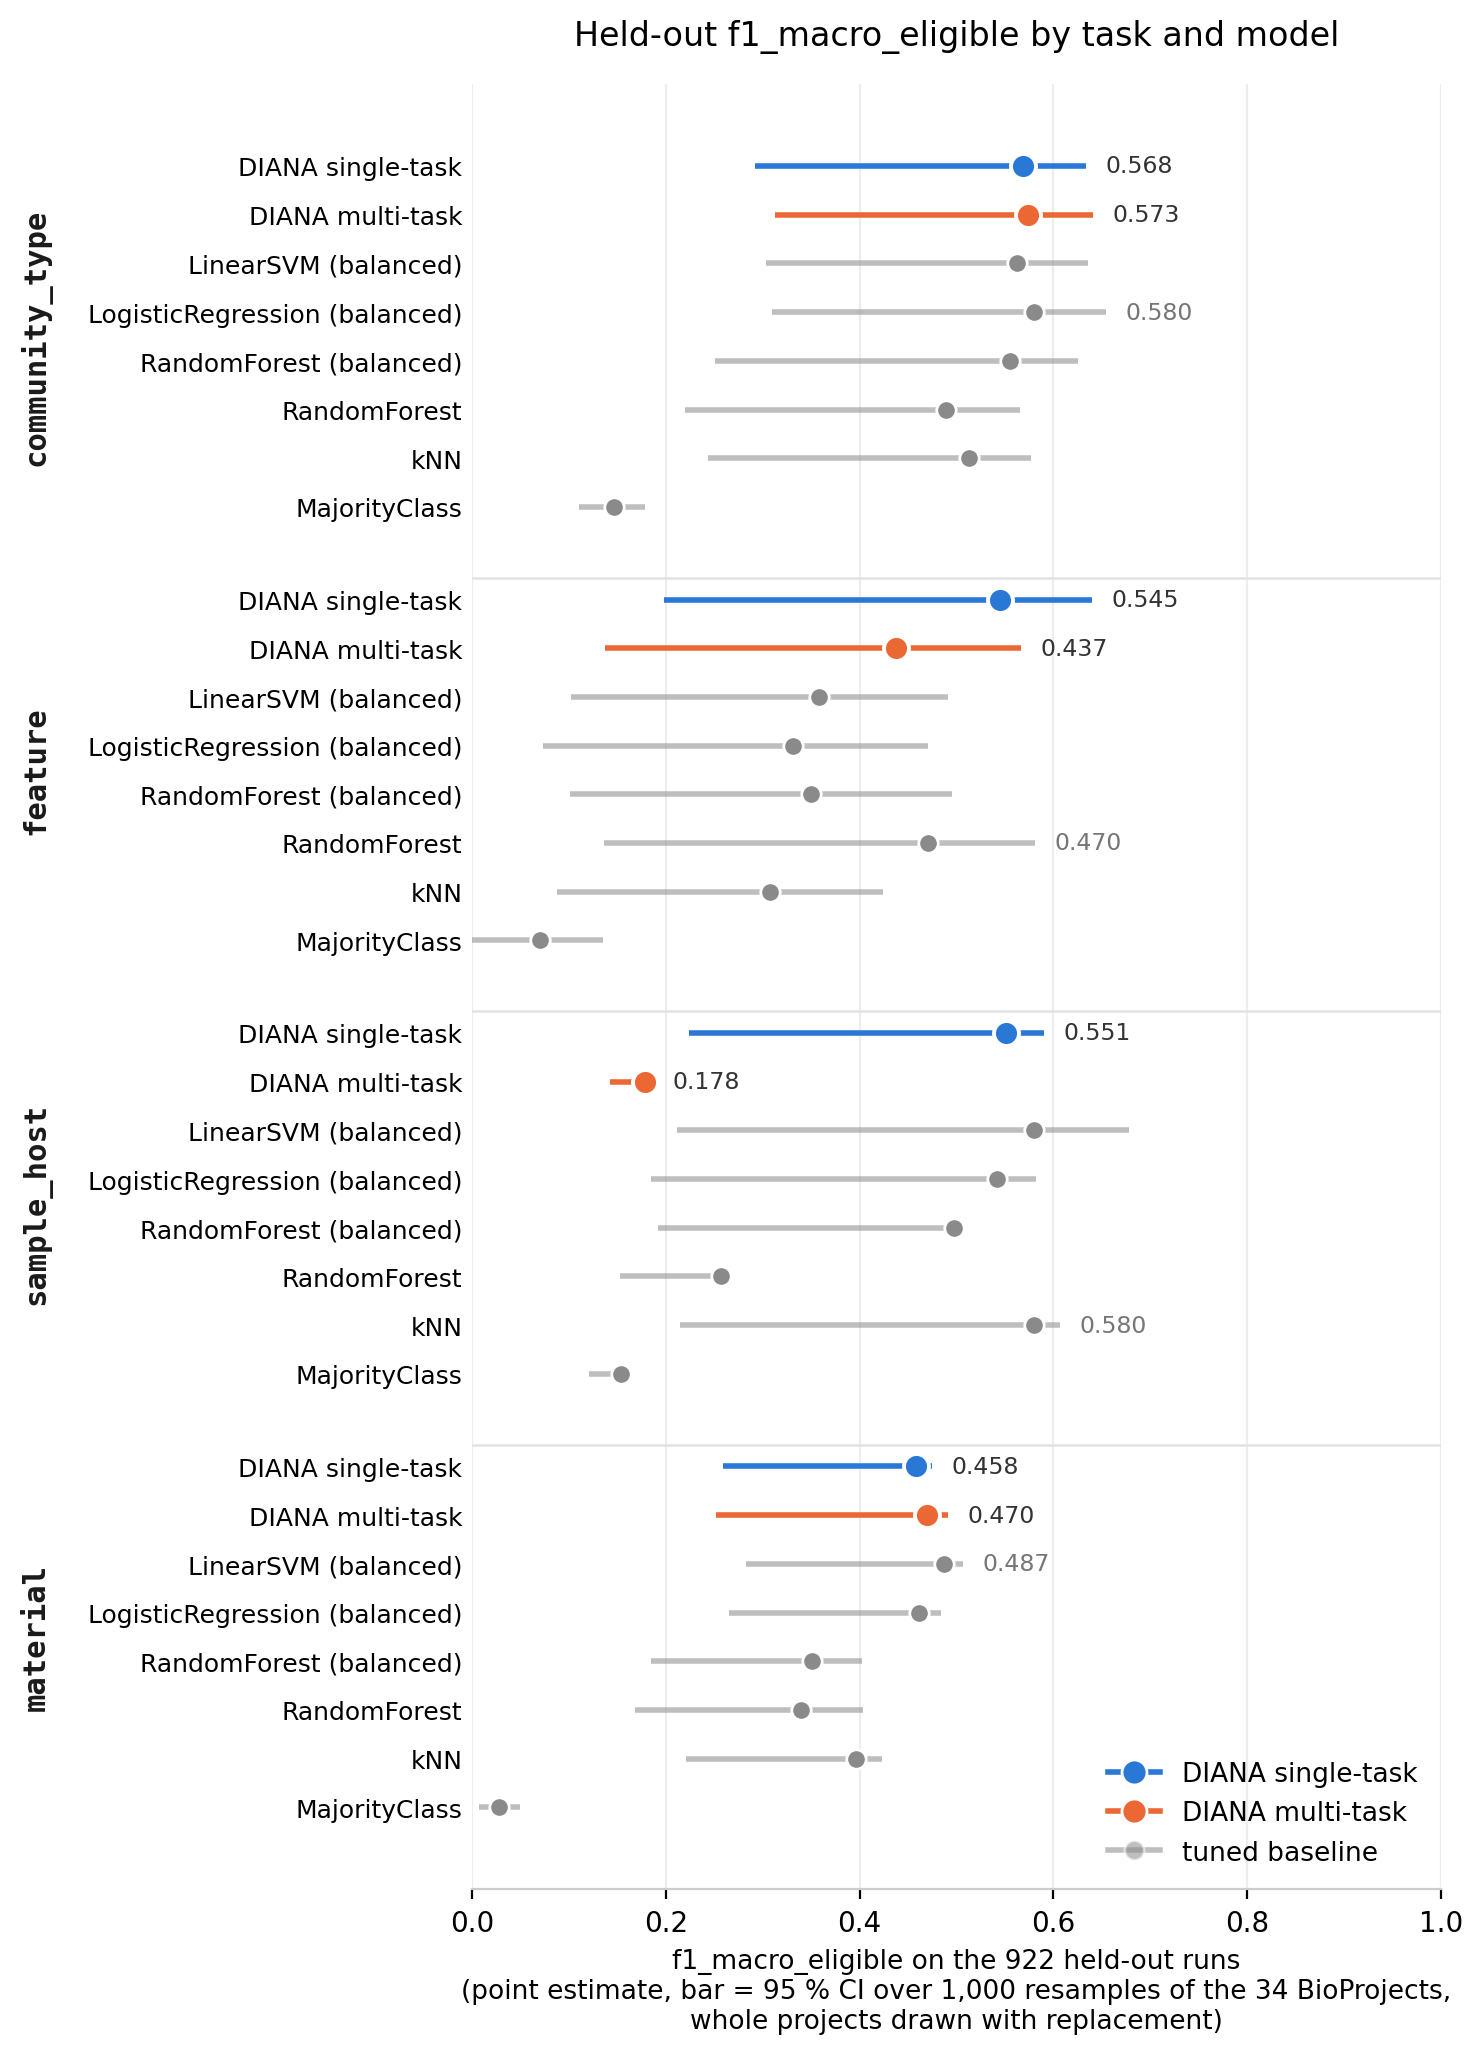
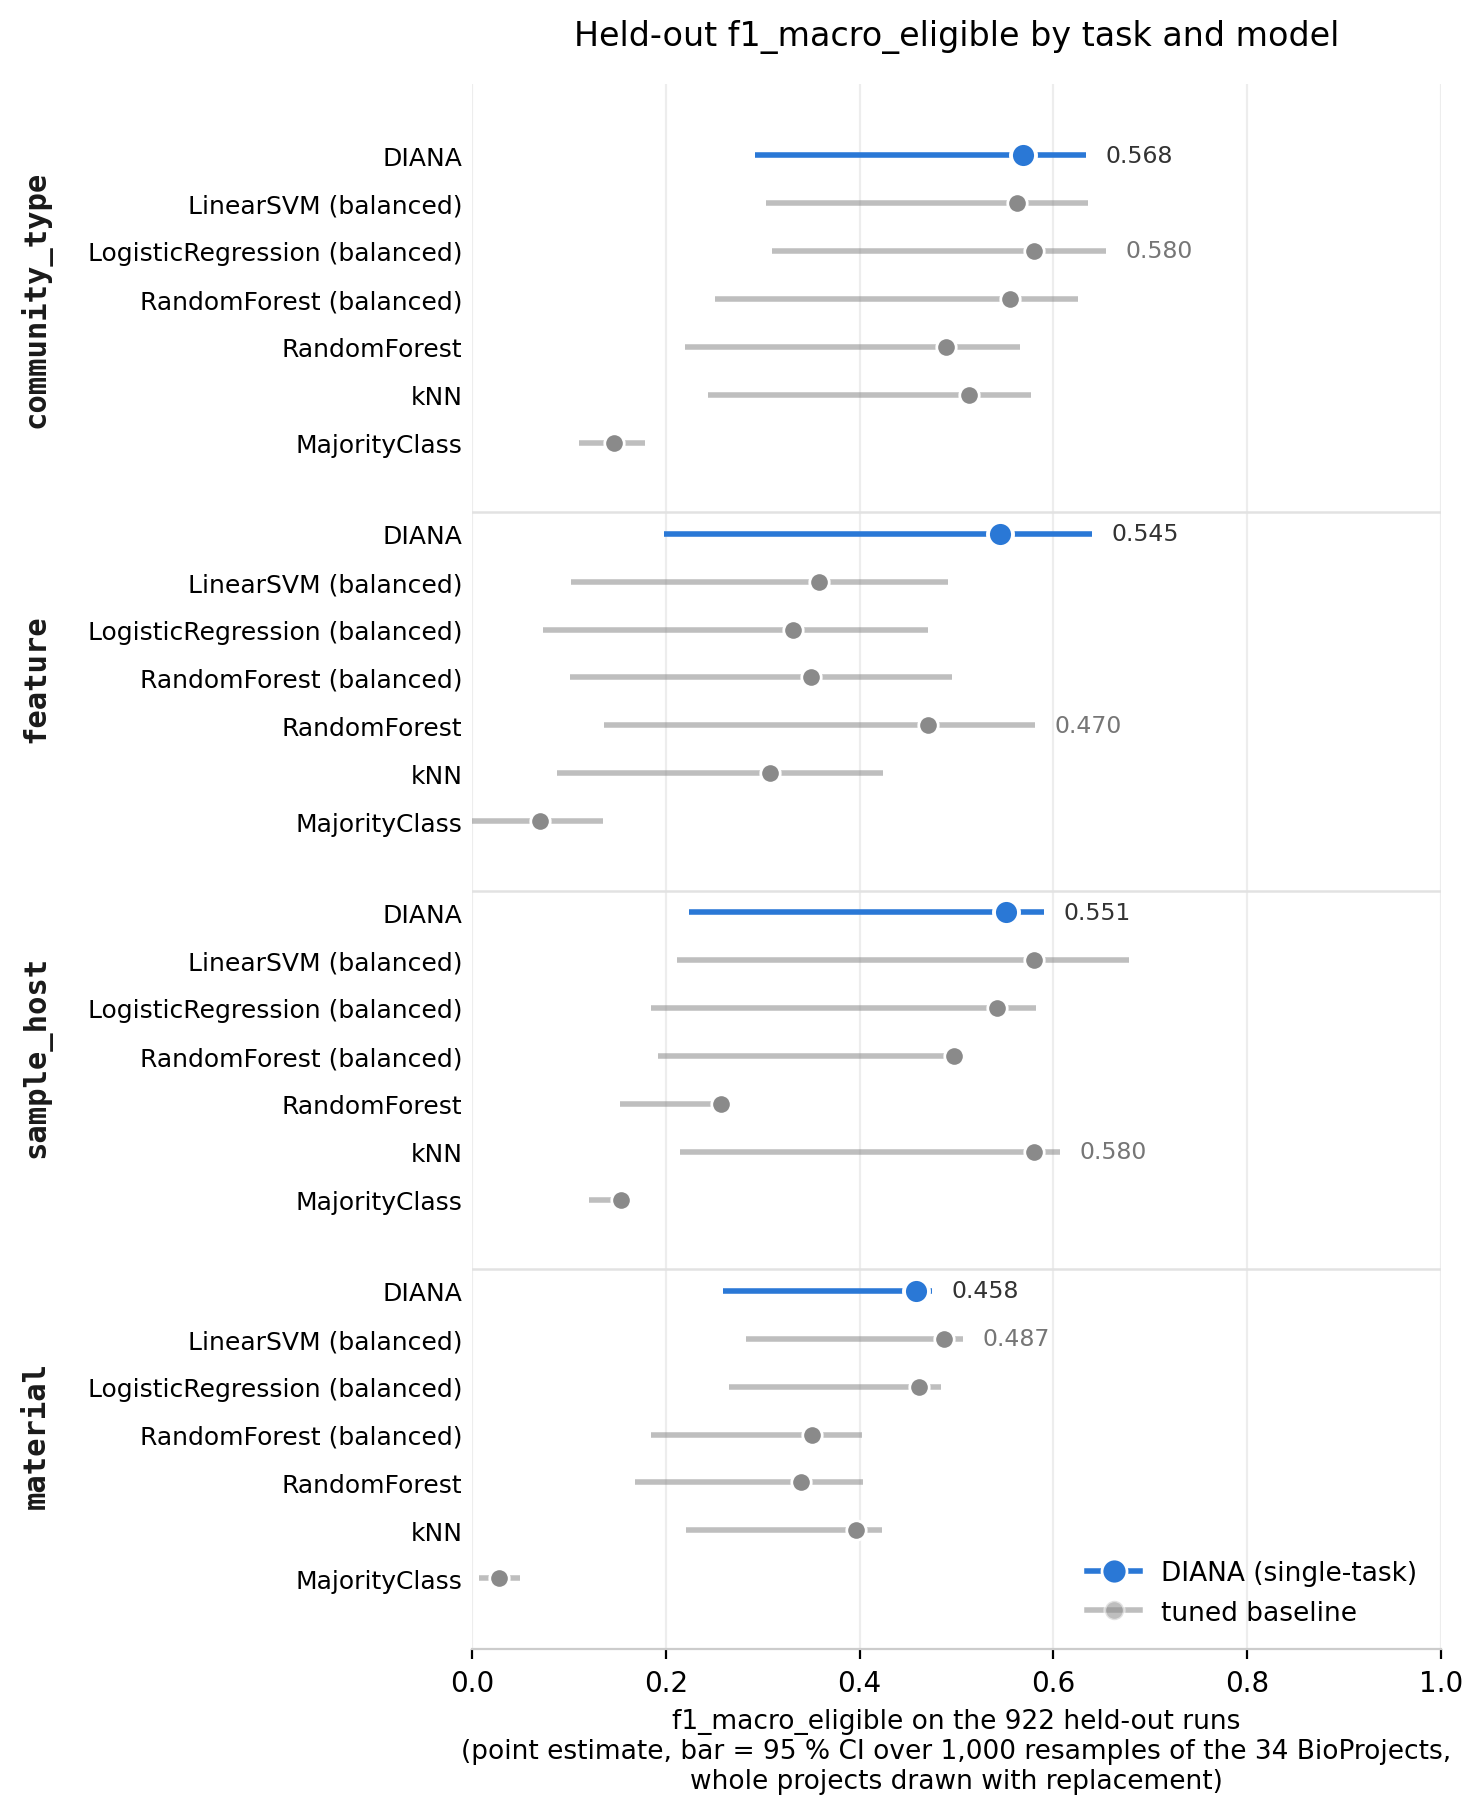
figure: DIANA is the single-task net, so the multi-task arm leaves the figure
The shared trunk was tested and dropped, so it is not a model this work reports and
showing it beside the baselines invited the reading that DIANA is two things. The
evidence for dropping it stays in PROJECT.md's Read-first item 0, which is the one
place it belongs.

Palette checked with the validator rather than assumed (node, module nodejs/26.8.1):
the two hues pass all six checks, CVD dE 24.7 protan / 32.7 tritan, normal-vision
33.6. The grey is deliberately a neutral for the reference group rather than a third
identity, so it is exempt from the chroma floor and was checked only for contrast
against the surface.

Also: values are printed only for DIANA and the strongest baseline per task, since a
number on all 32 points is clutter and Table 8 carries the full set; and the rotated
task labels were colliding with the model names.

diff --git a/scripts/paper/plot_heldout_comparison.py b/scripts/paper/plot_heldout_comparison.py
@@ -24,9 +24,11 @@ import pandas as pd
 PROJECT_ROOT = Path(__file__).resolve().parents[2]
 TASKS = ["community_type", "feature", "sample_host", "material"]
 # Fixed model order, top to bottom within every task block.
-ORDER = ["DIANA single-task", "DIANA multi-task", "LinearSVM_Bal",
-         "LogisticRegression_Bal", "RandomForest_Bal", "RandomForest", "kNN",
-         "MajorityClass"]
+# DIANA is the single-task network: the shared trunk was tested and dropped, so the
+# multi-task arm is not a model this paper reports. Its numbers stay in PROJECT.md's
+# Read-first item 0, which is the evidence for dropping it.
+ORDER = ["DIANA", "LinearSVM_Bal", "LogisticRegression_Bal", "RandomForest_Bal",
+         "RandomForest", "kNN", "MajorityClass"]
 # Slots 1 and 2 of the validated reference palette, used in order; baselines take a
 # neutral ink so the two DIANA variants are the only hues on the figure.
 # Slots 1 and 2 of the validated categorical palette, used in order. Checked with
@@ -36,7 +38,7 @@ ORDER = ["DIANA single-task", "DIANA multi-task", "LinearSVM_Bal",
 # an identity to tell apart -- so it is exempt from the chroma floor and was checked
 # only for contrast against the surface, which it passes.
 BLUE, ORANGE, GREY = "#2a78d6", "#eb6834", "#8a8a8a"
-COLOUR = {"DIANA single-task": BLUE, "DIANA multi-task": ORANGE}
+COLOUR = {"DIANA": BLUE}
 
 
 def collect() -> pd.DataFrame:
@@ -48,15 +50,13 @@ def collect() -> pd.DataFrame:
             rows.append({"task": t, "model": r.model, "f1": r.f1_macro_eligible,
                          "lo": r.f1_macro_eligible_ci_low,
                          "hi": r.f1_macro_eligible_ci_high})
-        for label, sub in [("DIANA multi-task", "heldout_multitask"),
-                           ("DIANA single-task", f"heldout_single_{t}")]:
-            p = PROJECT_ROOT / f"results/final_eval_v9/{sub}/test_metrics.json"
-            m = json.loads(p.read_text()).get(t)
-            if isinstance(m, dict):
-                rows.append({"task": t, "model": label,
-                             "f1": m["f1_macro_eligible"],
-                             "lo": m["f1_macro_eligible_ci_low"],
-                             "hi": m["f1_macro_eligible_ci_high"]})
+        p = PROJECT_ROOT / f"results/final_eval_v9/heldout_single_{t}/test_metrics.json"
+        m = json.loads(p.read_text()).get(t)
+        if isinstance(m, dict):
+            rows.append({"task": t, "model": "DIANA",
+                         "f1": m["f1_macro_eligible"],
+                         "lo": m["f1_macro_eligible_ci_low"],
+                         "hi": m["f1_macro_eligible_ci_high"]})
     return pd.DataFrame(rows)
 
 
@@ -66,7 +66,7 @@ def main() -> int:
     if missing:
         raise SystemExit(f"models not in the fixed order: {sorted(missing)}")
 
-    fig, ax = plt.subplots(figsize=(8.2, 10.4))
+    fig, ax = plt.subplots(figsize=(8.2, 9.2))
     y, ticks, labels, boundaries = 0.0, [], [], []
     for ti, task in enumerate(TASKS):
         sub = df[df.task == task].set_index("model")
@@ -127,9 +127,7 @@ def main() -> int:
     ax.tick_params(axis="y", length=0)
 
     handles = [plt.Line2D([], [], color=BLUE, marker="o", ms=9, lw=2.0,
-                          markeredgecolor="white", label="DIANA single-task"),
-               plt.Line2D([], [], color=ORANGE, marker="o", ms=9, lw=2.0,
-                          markeredgecolor="white", label="DIANA multi-task"),
+                          markeredgecolor="white", label="DIANA (single-task)"),
                plt.Line2D([], [], color=GREY, marker="o", ms=7, lw=2.0, alpha=0.55,
                           markeredgecolor="white", label="tuned baseline")]
     ax.legend(handles=handles, loc="lower right", frameon=False, fontsize=9.5)
